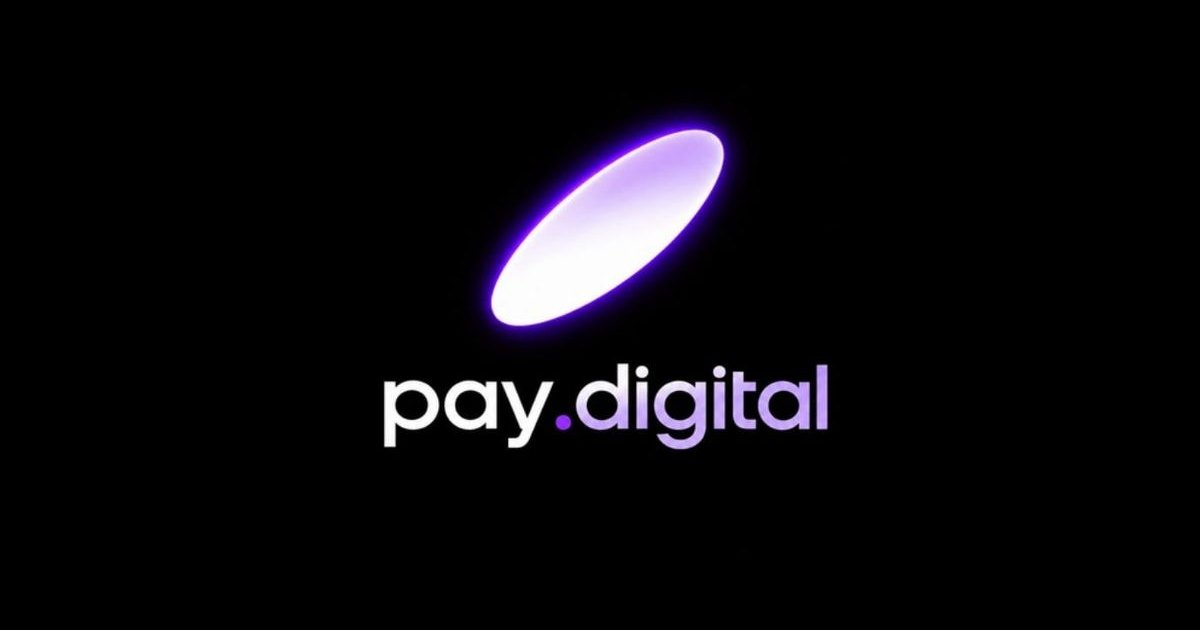
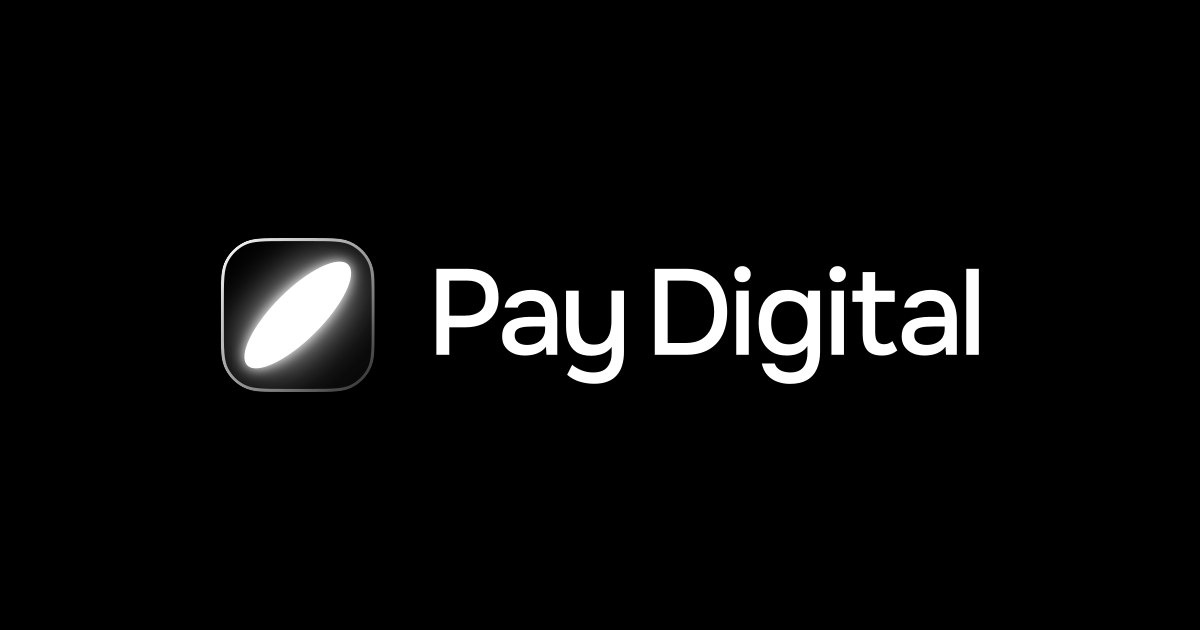
Новая айдентика Pay Digital
Векторный логотип и знак из брендбука, новые иконка вкладки и превью
для соцсетей; название в текстах — «Pay Digital».

Changed region(s): [[0.185, 0.1508, 0.8325, 0.7238]]

diff --git a/index.html b/index.html
@@ -6,10 +6,10 @@
     <link rel="apple-touch-icon" href="./apple-touch-icon.png" />
     <meta name="viewport" content="width=device-width, initial-scale=1.0, viewport-fit=cover" />
     <meta name="theme-color" content="#050308" />
-    <meta name="description" content="Команда технической поддержки pay.digital — мы всегда на связи." />
-    <title>Техподдержка pay.digital</title>
+    <meta name="description" content="Команда технической поддержки Pay Digital — мы всегда на связи." />
+    <title>Техподдержка Pay Digital</title>
     <meta property="og:type" content="website" />
-    <meta property="og:title" content="Команда технической поддержки pay.digital" />
+    <meta property="og:title" content="Команда технической поддержки Pay Digital" />
     <meta property="og:description" content="Мы всегда на связи." />
     <meta property="og:url" content="https://oannaklychev-sketch.github.io/paydigital-support/" />
     <meta property="og:image" content="https://oannaklychev-sketch.github.io/paydigital-support/og.jpg" />

diff --git a/src/index.css b/src/index.css
@@ -200,8 +200,8 @@ a {
 
 .hero__logo {
   position: relative;
-  width: clamp(180px, min(26vw, 30svh), 340px);
-  margin-bottom: clamp(8px, 2svh, 24px);
+  width: clamp(220px, min(30vw, 48svh), 420px);
+  margin-bottom: clamp(20px, 4svh, 40px);
 }
 
 .hero__logo img,
@@ -209,13 +209,13 @@ a {
   position: relative;
   width: 100%;
   height: auto;
-  filter: drop-shadow(0 0 28px rgba(124, 58, 237, 0.55));
+  filter: drop-shadow(0 0 24px rgba(124, 58, 237, 0.45));
 }
 
 .hero__logo-glow {
   position: absolute;
-  inset: -60% -20%;
-  background: radial-gradient(closest-side, rgba(167, 139, 250, 0.35), transparent 70%);
+  inset: -160% -12%;
+  background: radial-gradient(closest-side, rgba(167, 139, 250, 0.3), transparent 70%);
   filter: blur(10px);
   animation: breathe 4s ease-in-out infinite;
 }
@@ -602,7 +602,8 @@ a {
 
 .finale__logo {
   position: relative;
-  width: clamp(180px, 22vw, 260px);
+  width: clamp(200px, 24vw, 300px);
+  margin-bottom: 6px;
 }
 
 /* ---------- MOBILE ---------- */

diff --git a/src/components/Finale.tsx b/src/components/Finale.tsx
@@ -62,7 +62,7 @@ export function Finale() {
       >
         <p className="eyebrow">Вся команда в сборе</p>
         <h2 className="finale__title">
-          Вместе мы — <span className="accent-text">техподдержка pay.digital</span>
+          Вместе мы — <span className="accent-text">техподдержка Pay Digital</span>
         </h2>
       </motion.header>
 
@@ -87,7 +87,7 @@ export function Finale() {
           <Logo />
         </div>
         <p>Мы всегда на связи</p>
-        <p className="copyright">© {YEAR} pay.digital. Все права защищены.</p>
+        <p className="copyright">© {YEAR} Pay Digital. Все права защищены.</p>
         <a className="credit" href="https://t.me/i_am_ObeOne" target="_blank" rel="noopener noreferrer">
           ObeOne
         </a>

diff --git a/src/scene/Decor.tsx b/src/scene/Decor.tsx
@@ -9,7 +9,7 @@ export function WallLayer({ length, logoStep }: { length: number; logoStep: numb
       <div className="wall__strip" />
       {Array.from({ length: logos }, (_, i) => (
         <div className="wall__logo" key={i} style={{ left: i * logoStep }}>
-          <img src={asset('brand/logo.webp')} alt="" draggable={false} />
+          <img src={asset('brand/logo.svg')} alt="" draggable={false} />
         </div>
       ))}
     </div>

diff --git a/src/components/TeamScene.tsx b/src/components/TeamScene.tsx
@@ -53,7 +53,7 @@ function Stand({ member, index, layout, part }: { member: Member; index: number;
     <div className={`counter counter--${member.tier}`} style={style}>
       <div className="counter__top" />
       <div className="counter__front">
-        <img src={asset('brand/mark.webp')} alt="" draggable={false} />
+        <img src={asset('brand/mark.svg')} alt="" draggable={false} />
       </div>
     </div>
   )

diff --git a/src/scene/scene.css b/src/scene/scene.css
@@ -76,8 +76,8 @@
 .wall__logo {
   position: absolute;
   top: 26%;
-  width: clamp(160px, 18vw, 260px);
-  opacity: 0.14;
+  width: clamp(180px, 20vw, 300px);
+  opacity: 0.12;
   filter: saturate(0.6);
 }
 
@@ -282,8 +282,8 @@
 }
 
 .counter__front img {
-  width: calc(var(--charH) * 0.1);
-  opacity: 0.75;
+  width: calc(var(--charH) * 0.09);
+  opacity: 0.85;
 }
 
 .counter--head .counter__front {

diff --git a/src/components/icons.tsx b/src/components/icons.tsx
@@ -9,5 +9,5 @@ export function TelegramIcon({ size = 18 }: { size?: number }) {
 }
 
 export function Logo({ className }: { className?: string }) {
-  return <img className={className} src={asset('brand/logo.webp')} alt="pay.digital" draggable={false} />
+  return <img className={className} src={asset('brand/logo.svg')} alt="Pay Digital" draggable={false} />
 }

diff --git a/src/components/Hero.tsx b/src/components/Hero.tsx
@@ -95,7 +95,7 @@ export function Hero() {
               animate={{ y: '0%' }}
               transition={{ duration: 1, delay: 0.82, ease }}
             >
-              pay.digital
+              Pay Digital
             </motion.span>
           </span>
         </h1>

diff --git a/README.md b/README.md
@@ -1,6 +1,6 @@
-# pay.digital — команда технической поддержки
+# Pay Digital — команда технической поддержки
 
-Одностраничный сайт отдела технической поддержки pay.digital: приветствие, сцена, где сотрудники по очереди появляются у своих стоек, и вся команда в один ряд.
+Одностраничный сайт отдела технической поддержки Pay Digital: приветствие, сцена, где сотрудники по очереди появляются у своих стоек, и вся команда в один ряд.
 
 Автор — [ObeOne](https://t.me/i_am_ObeOne).
 
@@ -28,7 +28,7 @@ npm run preview  # посмотреть сборку
 
 ## Права
 
-© 2026 pay.digital. Все права защищены — см. [LICENSE](LICENSE). Код, логотип и фотографии сотрудников не распространяются по открытой лицензии. Об уязвимостях — [SECURITY.md](SECURITY.md).
+© 2026 Pay Digital. Все права защищены — см. [LICENSE](LICENSE). Код, логотип и фотографии сотрудников не распространяются по открытой лицензии. Об уязвимостях — [SECURITY.md](SECURITY.md).
 
 ## Деплой
 
